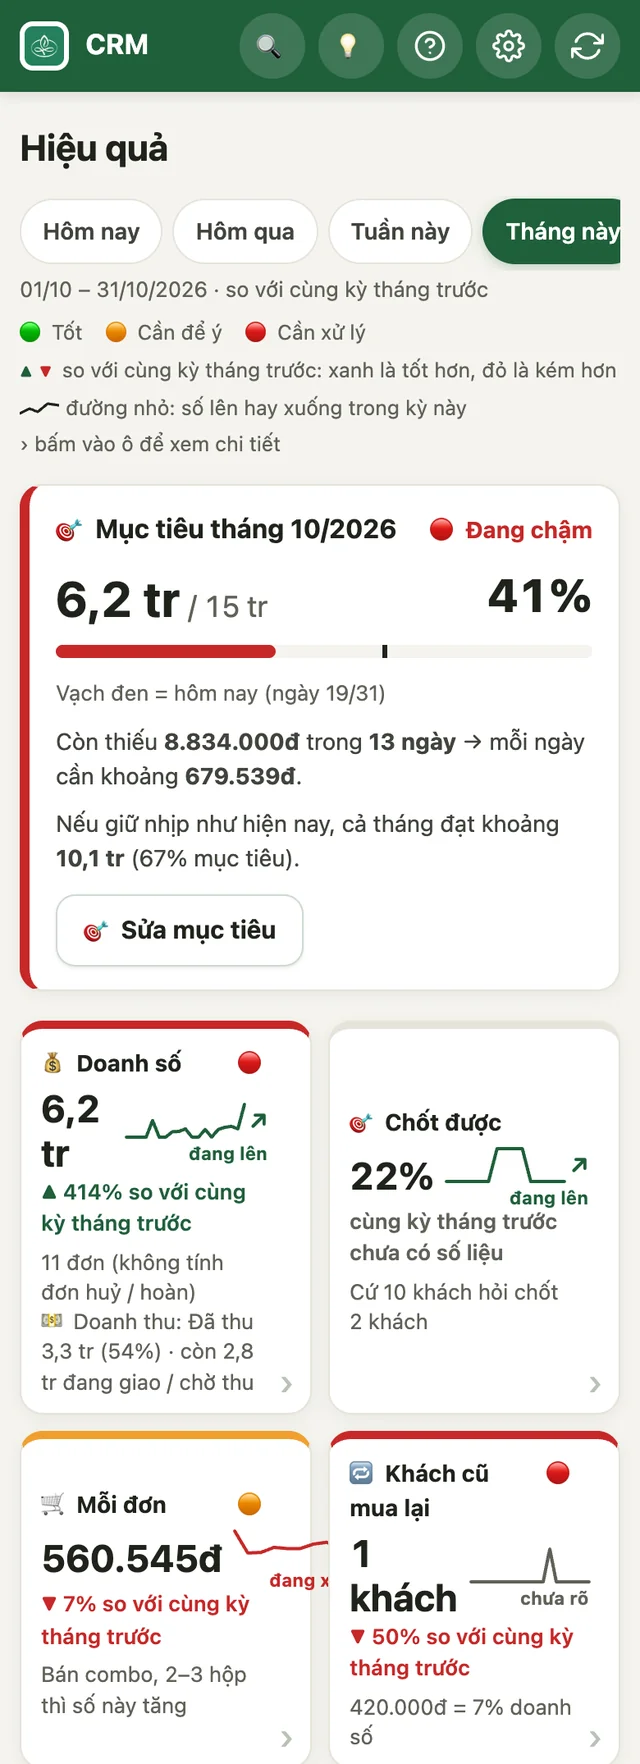
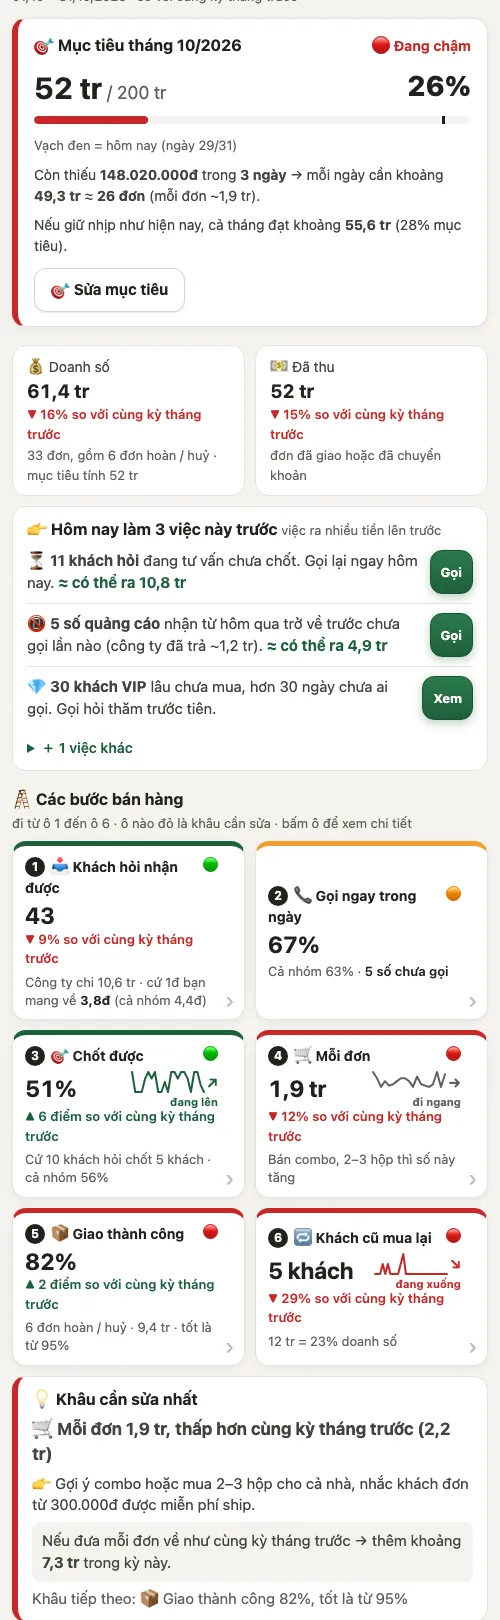
CRM Hiệu quả: sắp lại theo thứ tự sale giỏi (mục tiêu → 3 việc ra tiền → 6 bước bán hàng → khâu cần sửa nhất → công cụ)

Changed region(s): [[0.0, 0.0, 1.0, 1.0], [0.75, 0.1852, 0.96, 0.216]]

diff --git a/crm/app.js b/crm/app.js
@@ -3145,11 +3145,11 @@
   function weekStart(t) { var dow = new Date(t + 7 * 3600e3).getUTCDay(); return t - ((dow + 6) % 7) * DAY; } // thứ Hai
   function quarterOf(mk, n) { var y = +mk.slice(0, 4), m = +mk.slice(5, 7) - 1, q = Math.floor(m / 3) + (n || 0), yy = y + Math.floor(q / 4), qq = ((q % 4) + 4) % 4; return yy + '-' + pad(qq * 3 + 1); } // tháng đầu quý
   /** Nút chọn nhanh 1 chạm (Tổng quan, Marketing) + 📅 Khác (tự chọn ngày). Dưới là ngày cụ thể và đang so với kỳ nào. */
-  function perChips(slot, p, extra, noCmp) { // extra: thêm nút cuối ('all' = Mọi lúc); noCmp: tab không so kỳ trước (Đơn hàng)
+  function perChips(slot, p, extra, noCmp, noKey) { // extra: thêm nút cuối ('all' = Mọi lúc); noCmp: tab không so kỳ trước (Đơn hàng); noKey: bỏ dòng chú thích ký hiệu
     var ks = PER_CEO.concat(extra || []), R = perRange(p), on = ks.indexOf(p.k) >= 0;
     return '<div class="per-q" role="group" aria-label="Thời gian">' + ks.map(function (k) { return '<button type="button" class="chip' + (p.k === k ? ' on' : '') + '" data-pq="' + slot + '|' + k + '">' + perLabel({ k: k }) + '</button>'; }).join('') +
       '<button type="button" class="chip' + (on ? '' : ' on') + '" data-per="' + slot + '">📅 ' + (on ? 'Khác' : esc(perLabel(p))) + '</button></div>' +
-      '<p class="small muted per-q-d">' + (p.k === 'all' ? 'Từ trước tới nay' : perDates(R)) + (noCmp ? '' : CMP_LABEL ? ' · so với ' + CMP_LABEL : p.k === 'year' ? ' · năm nay chưa so với năm trước' : '') + '</p>' + (noCmp ? '' : statKey(slot));
+      '<p class="small muted per-q-d">' + (p.k === 'all' ? 'Từ trước tới nay' : perDates(R)) + (noCmp ? '' : CMP_LABEL ? ' · so với ' + CMP_LABEL : p.k === 'year' ? ' · năm nay chưa so với năm trước' : '') + '</p>' + (noCmp || noKey ? '' : statKey(slot));
   }
   /** Chú thích ngay trên màn hình thống kê: màu đèn, ▲▼, đường nhỏ, ô bấm được. Nhìn là hiểu, không phải mở hướng dẫn.
    *  Đèn chỉ có ở Tổng quan (g), Hiệu quả (r), Marketing (m); Sàn, Link & QR chỉ có ▲▼ và đường nhỏ. */
@@ -3341,7 +3341,7 @@
   }
 
   /** Khối mục tiêu tháng: thanh tiến độ + còn thiếu bao nhiêu + mỗi ngày cần bao nhiêu. */
-  function targetBlock(name, month, sales, canEdit) {
+  function targetBlock(name, month, sales, canEdit, avg) { // avg: tiền mỗi đơn → đổi "mỗi ngày cần" ra số đơn
     var t = targetOf(name, month), R = monthRange(month), isCur = month === monthOf(Date.now());
     var days = Math.round((R[1] - R[0]) / DAY), elapsed = isCur ? Math.min(days, Math.floor((today() - R[0]) / DAY) + 1) : days;
     var btn = canEdit ? '<button class="btn' + (t ? '' : ' pri') + '" data-target="' + esc(name) + '|' + month + '">🎯 ' + (t ? 'Sửa mục tiêu' : 'Đặt mục tiêu ' + monthLabel(month)) + '</button>' : '';
@@ -3350,7 +3350,7 @@
     var label = { done: '🎉 Đã đạt mục tiêu!', ok: '🟢 Đúng tiến độ', mid: '🟠 Hơi chậm', bad: '🔴 Đang chậm' }[lv];
     var remain = Math.max(0, t.amount - sales), left = days - elapsed + 1, forecast = elapsed ? Math.round(sales / elapsed * days) : 0;
     var lines = [];
-    if (isCur && p < 1) lines.push('Còn thiếu <b>' + money(remain) + '</b> trong <b>' + left + ' ngày</b> → mỗi ngày cần khoảng <b>' + moneyShort(Math.ceil(remain / left)) + '</b>.');
+    if (isCur && p < 1) lines.push('Còn thiếu <b>' + money(remain) + '</b> trong <b>' + left + ' ngày</b> → mỗi ngày cần khoảng <b>' + moneyShort(Math.ceil(remain / left)) + '</b>' + (avg ? ' ≈ <b>' + Math.ceil(remain / left / avg) + ' đơn</b> (mỗi đơn ~' + moneyShort(avg) + ')' : '') + '.');
     if (isCur && p < 1 && elapsed >= 3) lines.push('Nếu giữ nhịp như hiện nay, cả tháng đạt khoảng <b>' + moneyShort(forecast) + '</b> (' + pct(forecast, t.amount) + '% mục tiêu).');
     if (p >= 1) lines.push('Vượt mục tiêu <b>' + money(sales - t.amount) + '</b>. Tuyệt vời!');
     if (!isCur && p < 1) lines.push('Kết thúc tháng đạt ' + Math.round(p * 100) + '% mục tiêu.');
@@ -5626,7 +5626,7 @@
     cx.whole = f.p.k === 'month' || f.p.k === 'lmonth'; // đúng trọn 1 tháng → mục tiêu dùng luôn số trong kỳ
     cx.P = cmpRange(f.p);
     if (f.p.k === 'all') { cx.all = salesAllGet(); if (!cx.all) cx.allNote = S.salesAll ? '' : '<div class="notice">⏳ Đang lấy doanh số từ trước tới nay trên máy chủ…</div>'; else cx.allNote = '<p class="small muted">Mọi lúc: <b>doanh số, số đơn</b> tính đủ mọi đơn từ trước tới nay (cả đơn cũ nhập từ file sale). Các chỉ số khác (chăm sóc, tỷ lệ chốt, khách cũ) tính trên dữ liệu khoảng 13 tháng gần nhất.</p>'; }
-    return '<div class="page-head"><h1>Hiệu quả</h1><div class="grow"></div>' + whoSel() + '</div>' + perChips('r', f.p, ['all']) +
+    return '<div class="page-head"><h1>Hiệu quả</h1><div class="grow"></div>' + whoSel() + '</div>' + perChips('r', f.p, ['all'], false, !!who && who !== '-') +
       (cx.allNote || '') + (!who ? viewTeam(cx) : who === '-' ? viewNoOwner(cx) : viewPerson(who, cx));
   }
   /** Tổng doanh số từ trước tới nay theo nhân viên bán (hỏi máy chủ, nhớ 10 phút). null = đang tải / máy chủ cũ chưa có. */
@@ -5761,20 +5761,69 @@
       '<div class="rep-fun-leg">' + parts.map(function (x) { return '<span class="' + x[0] + '"><u></u>' + x[1] + ' <b>' + x[2] + '</b></span>'; }).join('') + '</div>' +
       '<p>Cứ <b>10</b> khách hỏi thì ' + esc(who) + ' chốt được <b>' + per10 + '</b> khách.' + (c.pending ? ' Còn <b>' + c.pending + '</b> khách đang tư vấn, gọi lại sớm để chốt thêm. <a href="#tiem-nang">Mở Khách hỏi →</a>' : '') + '</p></div>';
   }
-  /** Tối đa 5 việc nên làm ngay, việc gấp lên trước. Chỉ dựa trên số liệu đã có trên máy. */
+  /** Việc nên làm ngay: hiện 3 việc, còn lại bấm "việc khác" mới mở. Việc mang về nhiều tiền lên trước;
+   *  tiền ước tính = số khách × tỷ lệ chốt × tiền mỗi đơn của chính người này (không có thì lấy kỳ trước). */
   function repTodo(c, p, me, mb) {
-    var L = [], you = me ? 'bạn' : '';
-    if (mb && mb.none) L.push({ p: 0, t: '📵 <b>' + mb.none + ' số quảng cáo</b> nhận từ hôm qua trở về trước chưa gọi lần nào' + (mb.cost && mb.n ? ' (công ty đã trả ~' + moneyShort(Math.round(mb.cost / mb.n * mb.none)) + ')' : '') + '. Gọi ngay hôm nay.', a: '<a class="btn sm pri" href="#tiem-nang">Gọi</a>' });
-    if (c.pending) L.push({ p: 1, t: '⏳ <b>' + c.pending + ' khách hỏi</b> đang tư vấn chưa chốt. Gọi lại ngay hôm nay.', a: '<a class="btn sm pri" href="#tiem-nang">Gọi</a>' });
-    if (c.vipRisk) L.push({ p: 1, t: '💎 <b>' + c.vipRisk + ' khách VIP</b> lâu chưa mua, hơn 30 ngày chưa ai gọi. Gọi hỏi thăm trước tiên.', a: me ? '<a class="btn sm pri" href="#khach-hang" data-vipgo="1">Xem</a>' : '' });
-    if (c.stale) L.push({ p: 2, t: '📵 <b>' + c.stale + ' khách</b> ' + you + ' phụ trách đã hơn 30 ngày chưa nói chuyện. Mỗi ngày gọi vài người.', a: me ? '<a class="btn sm" href="#hom-nay">Hôm nay</a>' : '' });
-    if (c.closePct !== null && p.closePct !== null && c.closePct < p.closePct - 2) L.push({ p: 2, t: '📉 Chốt được ' + c.closePct + '%, thấp hơn ' + CMP_LABEL + ' (' + p.closePct + '%). Xem khách hay từ chối vì sao để chuẩn bị câu trả lời.', a: '<button class="btn sm" data-rgo="why">Xem lý do</button>' });
-    if (c.orders >= 3 && p.orders && c.avg < p.avg * 0.9) L.push({ p: 3, t: '🛒 Mỗi đơn đang nhỏ hơn ' + CMP_LABEL + ' (' + moneyShort(c.avg) + ' so với ' + moneyShort(p.avg) + '). Gợi ý khách mua combo hoặc 2–3 hộp.' });
-    if (c.backPct !== null && c.backPct >= 10 && c.backN >= 2) L.push({ p: 2, t: '📦 ' + c.backN + ' đơn bị hoàn (' + c.backPct + '%). Gọi xác nhận kỹ trước khi gửi, đơn lớn nhờ khách chuyển khoản trước.' });
-    if (c.care && c.replyPct !== null && c.replyPct < 40) L.push({ p: 3, t: '☎ Chỉ ' + c.replyPct + '% lượt gọi có khách nghe máy. Thử gọi giờ khác (12h–13h, sau 19h) hoặc nhắn Zalo trước.' });
-    L.sort(function (x, y) { return x.p - y.p; });
-    var body = L.length ? L.slice(0, 5).map(function (x) { return '<div class="rep-todo-r"><span>' + x.t + '</span>' + (x.a || '') + '</div>'; }).join('') : '<div class="rep-todo-r"><span>🎉 Mọi thứ đang ổn. Giữ nhịp chăm sóc khách cũ mỗi ngày nhé!</span></div>';
-    return '<div class="box rep-todo"><h3>👉 Việc nên làm ngay</h3>' + body + '</div>';
+    var L = [], you = me ? 'bạn' : '', rate = c.data ? c.won / c.data : p.data ? p.won / p.data : 0, avg = c.avg || p.avg || 0;
+    var gain = function (n) { return Math.round(n * rate * avg); }, est = function (v) { return v >= 1e5 ? ' <b class="rep-est">≈ có thể ra ' + moneyShort(v) + '</b>' : ''; };
+    if (mb && mb.none) L.push({ p: 0, v: gain(mb.none), t: '📵 <b>' + mb.none + ' số quảng cáo</b> nhận từ hôm qua trở về trước chưa gọi lần nào' + (mb.cost && mb.n ? ' (công ty đã trả ~' + moneyShort(Math.round(mb.cost / mb.n * mb.none)) + ')' : '') + '.', a: '<a class="btn sm pri" href="#tiem-nang">Gọi</a>' });
+    if (c.pending) L.push({ p: 1, v: gain(c.pending), t: '⏳ <b>' + c.pending + ' khách hỏi</b> đang tư vấn chưa chốt. Gọi lại ngay hôm nay.', a: '<a class="btn sm pri" href="#tiem-nang">Gọi</a>' });
+    if (c.vipRisk) L.push({ p: 1, v: 0, t: '💎 <b>' + c.vipRisk + ' khách VIP</b> lâu chưa mua, hơn 30 ngày chưa ai gọi. Gọi hỏi thăm trước tiên.', a: me ? '<a class="btn sm pri" href="#khach-hang" data-vipgo="1">Xem</a>' : '' });
+    if (c.stale) L.push({ p: 2, v: 0, t: '📇 <b>' + c.stale + ' khách</b> ' + you + ' phụ trách đã hơn 30 ngày chưa nói chuyện. Không cần gọi hết: mỗi ngày gọi <b>' + Math.min(20, c.stale) + ' người</b> là đủ.', a: me ? '<a class="btn sm" href="#hom-nay">Mở Hôm nay</a>' : '' });
+    L.sort(function (x, y) { return (y.v - x.v) || (x.p - y.p); });
+    var row = function (x) { return '<div class="rep-todo-r"><span>' + x.t + est(x.v) + '</span>' + (x.a || '') + '</div>'; };
+    var body = L.length ? L.slice(0, 3).map(row).join('') + (L.length > 3 ? '<details class="rep-todo-more"><summary>＋ ' + (L.length - 3) + ' việc khác</summary>' + L.slice(3).map(row).join('') + '</details>' : '') : '<div class="rep-todo-r"><span>🎉 Không có việc gấp. Giữ nhịp chăm sóc khách cũ mỗi ngày nhé!</span></div>';
+    return '<div class="box rep-todo"><h3>👉 Hôm nay làm ' + (L.length ? Math.min(3, L.length) + ' việc này trước' : 'gì?') + ' <small class="muted">việc ra nhiều tiền lên trước</small></h3>' + body + '</div>';
+  }
+  /** Ô từng bước bán hàng: số thứ tự + đèn kèm chữ (Tốt / Cần để ý / Cần xử lý), bấm → mở mục chi tiết. */
+  function repStep(i, go, lv, label, value, d, sub, spark) {
+    return '<button type="button" class="dash-tile rep-step ' + (lv || '') + '" data-dgo="' + go + '"><span class="dash-tile-l"><span><em class="rep-step-n">' + i + '</em>' + label + '</span>' + (DASH_LV[lv] ? '<i class="rep-step-lv">' + DASH_LV[lv] + '<span> ' + DASH_TIP[lv] + '</span></i>' : '') + '</span>' +
+      '<span class="dash-tile-v"><b>' + value + '</b>' + (spark || '') + '</span>' + (d || '') + '<small>' + sub + '</small></button>';
+  }
+  /** Tỷ lệ chốt cả nhóm theo file số quảng cáo (máy chủ gửi kèm cả cho sale). */
+  function smkClose(T) { return T && T.n ? pct(T.won, T.n) : null; }
+  /** 6 bước bán hàng theo đúng thứ tự làm việc (29/10/2026): số nhận → gọi ngay → chốt → mỗi đơn → giao thành công → khách cũ mua lại. */
+  function repSteps(c, p, mk, mb, T) {
+    var K = repSparks(c.name, c.cx), sp = mb ? smkSpeed(mb) : null, tsp = T && T !== mb ? smkSpeed(T) : null, tcl = T && T !== mb ? smkClose(T) : null;
+    var roi = mb && mb.cost ? mb.rev / mb.cost : null, troi = T ? (T.roi != null ? T.roi : T.cost ? T.rev / T.cost : null) : null;
+    var ok = c.vPct === null ? null : 100 - c.vPct, okLv = c.vPct === null ? '' : c.vPct < 5 ? 'ok' : c.vPct < 10 ? 'mid' : 'bad';
+    var wait = mk === null ? 'Không tính khi xem Mọi lúc' : mk === undefined ? '⏳ Đang tính…' : '';
+    return '<div class="rep-steps-h"><h3>🪜 Các bước bán hàng</h3><span>đi từ ô 1 đến ô 6 · ô nào đỏ là khâu cần sửa · bấm ô để xem chi tiết</span></div><div class="dash-tiles dt6 rep-steps">' +
+      repStep(1, 'mkt', roi !== null ? adsLv(mb.cost, mb.rev) : '', '📥 Khách hỏi nhận được', c.data, delta(c.data, p.data),
+        roi !== null ? 'Công ty chi ' + moneyShort(mb.cost) + ' · cứ 1đ bạn mang về <b>' + oneDec(roi) + 'đ</b>' + (troi !== null && T !== mb ? ' (cả nhóm ' + oneDec(troi) + 'đ)' : '') : wait || 'Số khách để lại từ quảng cáo') +
+      repStep(2, 'mkt', smkSpeedLv(sp), '📞 Gọi ngay trong ngày', sp === null ? '–' : sp + '%', '',
+        sp === null ? (wait || 'Chưa có số mới để tính') : (tsp !== null ? 'Cả nhóm ' + tsp + '% · ' : '') + (mb.none ? '<b class="bad-line">' + mb.none + ' số chưa gọi</b>' : 'Tốt là từ 80%')) +
+      repStep(3, 'why', repRateLv(c.closePct, p.closePct), '🎯 Chốt được', c.closePct === null ? '–' : c.closePct + '%', c.closePct === null ? '' : delta(c.closePct, p.closePct, 'rate'),
+        c.data ? 'Cứ 10 khách hỏi chốt ' + Math.round(c.won * 10 / c.data) + ' khách' + (tcl !== null ? ' · cả nhóm ' + tcl + '%' : '') : 'Chưa có khách hỏi từ quảng cáo', K.close) +
+      repStep(4, 'rtrend', c.orders && p.orders ? dashTrend(c.avg, p.avg) : '', '🛒 Mỗi đơn', c.orders ? moneyShort(c.avg) : '–', c.orders ? delta(c.avg, p.orders ? p.avg : 0) : '', 'Bán combo, 2–3 hộp thì số này tăng', K.avg) +
+      repStep(5, 'rtrend', okLv, '📦 Giao thành công', ok === null ? '–' : ok + '%', ok !== null && p.vPct !== null ? delta(ok, 100 - p.vPct, 'rate') : '',
+        c.grossN ? (c.vN ? c.vN + ' đơn hoàn / huỷ · ' + moneyShort(c.vV) + ' · ' : '') + 'tốt là từ 95%' : 'Chưa có đơn trong kỳ') +
+      repStep(6, 'care', c.sales ? repRateLv(c.oldPct, p.sales ? p.oldPct : null) : '', '🔁 Khách cũ mua lại', c.repeat + ' khách', delta(c.repeat, p.repeat), c.sales ? moneyShort(c.oldRev) + ' = ' + c.oldPct + '% doanh số' : 'Chăm sóc tốt thì số này tăng', K.repeat) +
+      '</div>';
+  }
+  /** 💡 Khâu cần sửa nhất: chỉ 1 khâu (đèn đỏ trước, rồi khâu mất nhiều tiền nhất), kèm cách làm và số tiền thêm được nếu sửa. */
+  function repFix(c, p, mb, T) {
+    var C = [], avg = c.avg || p.avg || 0, sp = mb ? smkSpeed(mb) : null, tcl = T && T !== mb ? smkClose(T) : null;
+    if (c.vPct !== null && c.vPct > 5 && c.vN >= 2) C.push({ lv: c.vPct >= 10 ? 'bad' : 'mid', v: Math.round(c.vV * (c.vPct - 5) / c.vPct), t: '📦 Giao thành công ' + (100 - c.vPct) + '%, tốt là từ 95%', h: 'Gọi xác nhận trước khi gửi (đúng tên, địa chỉ, giờ nhận). Đơn lớn nhờ khách chuyển khoản trước.', g: 'giảm hoàn / huỷ còn 5%' });
+    if (sp !== null && sp < 80) C.push({ lv: smkSpeedLv(sp), v: 0, t: '📞 Gọi ngay trong ngày ' + sp + '%, tốt là từ 80%', h: 'Khách vừa để số còn nhớ quảng cáo nên dễ chốt. Có số mới là gọi trong 1 tiếng, gọi xong ghi lên CRM.' + (mb.none ? ' Gọi ngay ' + mb.none + ' số chưa gọi.' : '') });
+    var ref = c.closePct === null ? null : tcl !== null && tcl > c.closePct ? [tcl, 'bằng cả nhóm (' + tcl + '%)'] : p.closePct !== null && p.closePct > c.closePct ? [p.closePct, 'bằng ' + CMP_LABEL + ' (' + p.closePct + '%)'] : null;
+    if (ref && c.data >= 5) C.push({ lv: ref[0] - c.closePct >= 3 ? 'bad' : 'mid', v: Math.round(c.data * (ref[0] - c.closePct) / 100 * avg), t: '🎯 Chốt được ' + c.closePct + '%', h: 'Xem khách hay từ chối vì sao (mục 🙅 bên dưới) để chuẩn bị sẵn câu trả lời. Khách đang tư vấn thì gọi lại trong 24 giờ.', g: 'tăng tỷ lệ chốt ' + ref[1] });
+    if (c.orders >= 3 && p.orders && c.avg < p.avg && CMP_LABEL) C.push({ lv: dashTrend(c.avg, p.avg), v: (p.avg - c.avg) * c.orders, t: '🛒 Mỗi đơn ' + moneyShort(c.avg) + ', thấp hơn ' + CMP_LABEL + ' (' + moneyShort(p.avg) + ')', h: 'Gợi ý combo hoặc mua 2–3 hộp cho cả nhà, nhắc khách đơn từ 300.000đ được miễn phí ship.', g: 'đưa mỗi đơn về như ' + CMP_LABEL });
+    if (p.repeat && c.repeat < p.repeat && CMP_LABEL) C.push({ lv: dashTrend(c.repeat, p.repeat), v: c.repeat ? Math.round((p.repeat - c.repeat) * c.oldRev / c.repeat) : 0, t: '🔁 Khách cũ mua lại ' + c.repeat + ' khách, ít hơn ' + CMP_LABEL + ' (' + p.repeat + ')', h: 'Mỗi ngày làm hết việc chăm sóc ở tab Hôm nay: hỏi nhận hàng, nhắc sắp hết sản phẩm, mời quay lại.', g: 'có thêm ' + (p.repeat - c.repeat) + ' khách cũ quay lại' });
+    if (c.care >= 10 && c.replyPct !== null && c.replyPct < 40) C.push({ lv: 'mid', v: 0, t: '☎ Chỉ ' + c.replyPct + '% cuộc gọi có khách nghe máy', h: 'Thử gọi giờ khác (12h–13h, sau 19h) hoặc nhắn Zalo trước khi gọi.' });
+    var rk = { bad: 2, mid: 1 };
+    C.sort(function (x, y) { return ((rk[y.lv] || 0) - (rk[x.lv] || 0)) || (y.v - x.v); });
+    if (!C.length) return '<div class="box rep-fix ok"><h3>💡 Khâu cần sửa nhất</h3><p>🎉 Các khâu đều đang tốt' + (CMP_LABEL ? ' so với ' + CMP_LABEL : '') + '. Giữ nhịp này nhé!</p></div>';
+    var x = C[0];
+    return '<div class="box rep-fix ' + (x.lv || 'mid') + '"><h3>💡 Khâu cần sửa nhất</h3><p class="rep-fix-t"><b>' + x.t + '</b></p><p>👉 ' + x.h + '</p>' +
+      (x.g && x.v >= 1e5 ? '<p class="rep-fix-g">Nếu ' + x.g + ' → thêm khoảng <b>' + moneyShort(x.v) + '</b> trong kỳ này.</p>' : '') +
+      (C[1] ? '<p class="small muted">Khâu tiếp theo: ' + C[1].t + '</p>' : '') + '</div>';
+  }
+  /** Dòng tiền dưới thanh mục tiêu: doanh số (gồm hoàn / huỷ) và tiền đã thu. Mục tiêu vẫn tính trên doanh số trừ hoàn / huỷ (c.sales). */
+  function repMoneyLine(c, p, cx) {
+    var g = cx.all ? c.sales : c.gross;
+    return '<div class="rep-money"><div>💰 Doanh số <b>' + moneyShort(g) + '</b>' + (cx.all ? '' : delta(c.gross, p.gross)) + '<small>' + (cx.all ? c.orders + ' đơn (Mọi lúc: chưa gồm hoàn / huỷ)' : c.grossN + ' đơn' + (c.vN ? ', gồm ' + c.vN + ' đơn hoàn / huỷ · mục tiêu tính ' + moneyShort(c.sales) : '')) + '</small></div>' +
+      '<div>💵 Đã thu <b>' + moneyShort(c.paid) + '</b>' + delta(c.paid, p.paid) + '<small>' + (c.sales > c.paid ? 'còn ' + moneyShort(c.sales - c.paid) + ' đang giao / chờ thu' : 'đơn đã giao hoặc đã chuyển khoản') + '</small></div></div>';
   }
   /** 3 ô tiền của tab Hiệu quả (26/10/2026): 💰 Doanh số GỒM hoàn / huỷ · 💵 Doanh thu đã thu · ↩ Hoàn / huỷ. Mục tiêu vẫn tính trên doanh số trừ hoàn / huỷ (c.sales).
    *  Mọi lúc (cx.all): máy chủ chỉ có doanh số trừ hoàn / huỷ → ô Doanh số hiện số đó. */
@@ -5786,33 +5835,31 @@
       dashTile('rtrend', vlv, '↩ Hoàn / huỷ', c.vPct === null ? '–' : c.vPct + '%', c.vPct !== null && p.vPct !== null ? inv(delta(c.vPct, p.vPct, 'rate')) : '',
         c.grossN ? c.vN + ' / ' + c.grossN + ' đơn · ' + moneyShort(c.vV) + ' · dưới 5% là tốt' : 'Chưa có đơn trong kỳ', K.vd);
   }
+  /* Hiệu quả của 1 người (29/10/2026) theo thứ tự sale giỏi tự hỏi: mình ở đâu so với mục tiêu → hôm nay làm gì → yếu ở bước nào → sửa thế nào.
+   * Số liệu sâu (quảng cáo, chăm sóc, lý do, tỉnh) thu gọn bên dưới; công cụ (link web, báo cáo) ở cuối. */
   function viewPerson(name, cx) {
-    var month = cx.month, c = salesAllFix(perf(name, cx.R), name, cx), p = perf(name, cx.P), me = name === S.user.name;
-    var ms = cx.whole ? c.sales : perf(name, monthRange(month)).sales, t = targetOf(name, month), G = t && t.amount ? goalCalc(ms, t.amount, month) : null;
+    var month = cx.month, c = salesAllFix(perf(name, cx.R), name, cx), p = perf(name, cx.P), me = name === S.user.name, who = me ? 'bạn' : name;
+    var ms = cx.whole ? c.sales : perf(name, monthRange(month)).sales, mk = smkGet(me && lvl() < 2 ? '' : name, cx), mb = mk && mk.me, T = mk && mk.team;
+    c.name = name; c.cx = cx;
     var h = (lvl() >= 2 && !me ? '<button class="btn ghost" data-who="team" style="margin-bottom:10px">← Quay lại cả nhóm</button>' : '') +
-      targetBlock(name, month, ms, me || lvl() >= 2);
-    var per10 = c.data ? Math.round(c.won * 10 / c.data) : null, mk = smkGet(me && lvl() < 2 ? '' : name, cx), K = repSparks(name, cx);
-    h += '<section class="dash-hero"><div class="dash-tiles dt6">' + repMoneyTiles(c, p, G, cx, K) +
-      dashTile('why', repRateLv(c.closePct, p.closePct), '🎯 Chốt được', c.closePct === null ? '–' : c.closePct + '%', c.closePct === null ? '' : delta(c.closePct, p.closePct, 'rate'), c.data ? 'Cứ 10 khách hỏi chốt ' + per10 + ' khách' : 'Chưa có khách hỏi từ quảng cáo', K.close) +
-      dashTile('rtrend', c.orders && p.orders ? dashTrend(c.avg, p.avg) : '', '🛒 Mỗi đơn', c.orders ? moneyShort(c.avg) : '–', c.orders ? delta(c.avg, p.orders ? p.avg : 0) : '', 'Bán combo, 2–3 hộp thì số này tăng', K.avg) +
-      dashTile('care', c.sales ? repRateLv(c.oldPct, p.sales ? p.oldPct : null) : '', '🔁 Khách cũ mua lại', c.repeat + ' khách', delta(c.repeat, p.repeat), c.sales ? moneyShort(c.oldRev) + ' = ' + c.oldPct + '% doanh số' : 'Chăm sóc tốt thì số này tăng', K.repeat) +
-      '</div>' + smkInvest(mk, mk && mk.me, me ? 'bạn' : name, cx.label) + repFunnel(c, me ? 'bạn' : name) + repTodo(c, p, me, mk && mk.me) + '</section>' + refBox(c, p, name);
-    h += '<div class="steps" style="margin:0 0 16px"><button class="btn pri" data-daily="' + esc(name) + '">📋 Báo cáo ngày (gửi Zalo)</button><button class="btn" data-bcdt="' + esc(name) + '|' + month + '">📊 Bảng BCDT ' + monthLabel(month) + '</button>' + (lvl() >= 3 && !me ? '<button class="btn" data-usage="' + esc(name) + '">📈 Mức dùng CRM</button>' : '') + '</div>';
+      targetBlock(name, month, ms, me || lvl() >= 2, c.avg || p.avg) + repMoneyLine(c, p, cx);
+    h += '<section class="dash-hero">' + repTodo(c, p, me, mb) + repSteps(c, p, mk, mb, T) + repFix(c, p, mb, T) + '</section>';
     h += '<h2 class="dash-more-h">Xem chi tiết <small class="muted">(bấm để mở)</small></h2>';
     h += repMore('rtrend', '📈 Bán hàng theo ngày', 'Doanh số, số đơn, lượt chăm sóc từng ngày, so với ' + (CMP_LABEL || 'kỳ trước'), repTrend(name, cx));
-    h += smkMore(mk, mk && mk.me);
+    h += smkMore(mk, mb, smkInvest(mk, mb, who, cx.label).replace(/<button class="link" data-rgo="mkt">[^<]*<\/button>/, '') + repFunnel(c, who));
     h += repMore('care', '💬 Chăm sóc khách', c.care + ' lượt' + (c.replyPct === null ? '' : ' · ' + c.replyPct + '% khách nghe máy') + (c.convPct === null ? '' : ' · ' + c.convPct + '% chăm sóc ra đơn'), careMetrics(c, p, me, name, cx.R));
     var why = whyBlock(name, cx), wt = (why.match(/<span class="bar-l" role="cell">([^<]*)</) || [])[1];
     h += repMore('why', '🙅 Vì sao khách chưa mua', wt ? 'Nhiều nhất: ' + wt : 'Ghi lý do khi chăm sóc để máy gom', why);
     var geo = geoBlock(name, cx), gt = (geo.match(/Nhiều nhất: <b>([^<]*)</) || [])[1];
     h += repMore('geo', '📍 Khách ở tỉnh nào', gt ? 'Nhiều nhất: ' + gt : 'Chưa có địa chỉ', geo);
-    h += '<p class="small muted">🟢 tốt hơn / bằng ' + (CMP_LABEL || 'kỳ trước') + ' · 🟠 giảm nhẹ · 🔴 giảm nhiều. Doanh số tính theo “Nhân viên bán” ghi trên từng đơn; đơn khách tự đặt trên web tính cho người đang phụ trách khách đó.</p>';
+    h += '<h2 class="dash-more-h">🧰 Công cụ</h2><div class="steps" style="margin:0 0 10px"><button class="btn pri" data-daily="' + esc(name) + '">📋 Báo cáo ngày (gửi Zalo)</button><button class="btn" data-bcdt="' + esc(name) + '|' + month + '">📊 Bảng BCDT ' + monthLabel(month) + '</button>' + (lvl() >= 3 && !me ? '<button class="btn" data-usage="' + esc(name) + '">📈 Mức dùng CRM</button>' : '') + '</div>' + refBox(c, p, name);
+    h += '<p class="small muted">🟢 Tốt · 🟠 Cần để ý · 🔴 Cần xử lý, so với ' + (CMP_LABEL || 'kỳ trước') + ' hoặc mức tốt ghi trong ô. Doanh số tính theo “Nhân viên bán” ghi trên từng đơn; đơn khách tự đặt trên web tính cho người đang phụ trách khách đó.</p>';
     return h;
   }
-  function smkMore(d, b) {
+  function smkMore(d, b, top) { // top: khung đặt đầu mục (Hiệu quả 1 người: công ty đã đầu tư + khách hỏi đi về đâu)
     if (d === null) return '';
     var B = d && (b || d.team);
-    return repMore('mkt', '📣 Từ quảng cáo', !d ? '⏳ đang tải…' : (B ? B.n + ' số' + (B.cost ? ' · công ty chi ' + moneyShort(B.cost) : '') + (smkSpeed(B) !== null ? ' · gọi trong ngày ' + smkSpeed(B) + '%' : '') : 'chưa có số') + ' · ưu đãi đang chạy', smkDetail(d, b));
+    return repMore('mkt', '📣 Từ quảng cáo', !d ? '⏳ đang tải…' : (B ? B.n + ' số' + (B.cost ? ' · công ty chi ' + moneyShort(B.cost) : '') + (smkSpeed(B) !== null ? ' · gọi trong ngày ' + smkSpeed(B) + '%' : '') : 'chưa có số') + ' · ưu đãi đang chạy', (top || '') + smkDetail(d, b));
   }
   function bindRep() {
     $$('details[data-rk]').forEach(function (d) {

diff --git a/crm/app.css b/crm/app.css
@@ -1198,3 +1198,24 @@ div.f > span { display: block; font-size: 13px; font-weight: 600; color: var(--i
 /* ✅ Nên làm gì: ai làm */
 .mk-who { display: inline-block; font-size: 12px; font-weight: 700; padding: 1px 8px; border-radius: 999px; background: #e7f2ea; color: var(--primary); vertical-align: 1px; }
 .mk-who.s { background: #fff1e0; color: var(--orange); }
+/* Hiệu quả 1 người (29/10/2026): dòng tiền dưới mục tiêu, việc làm ngay, 6 bước bán hàng, khâu cần sửa nhất */
+.rep-money { display: grid; grid-template-columns: 1fr 1fr; gap: 10px; margin: 10px 0 0; }
+.rep-money > div { background: #fff; border: 1px solid var(--line); border-radius: var(--radius); padding: 10px 14px; font-size: 14px; }
+.rep-money b { display: block; font-size: 22px; color: var(--ink); font-variant-numeric: tabular-nums; }
+.rep-money small { display: block; color: var(--muted); font-size: 13px; margin-top: 2px; }
+.rep-todo h3 small { font-weight: 400; font-size: 13px; }
+.rep-est { color: var(--primary); white-space: nowrap; }
+.rep-todo-more summary { cursor: pointer; padding: 8px 0 0; font-size: 14px; font-weight: 600; color: var(--primary); }
+.rep-steps-h { display: flex; flex-wrap: wrap; align-items: baseline; gap: 4px 10px; margin: 18px 0 8px; }
+.rep-steps-h h3 { margin: 0; font-size: 16px; }
+.rep-steps-h span { font-size: 13px; color: var(--muted); }
+.rep-step-n { display: inline-flex; align-items: center; justify-content: center; width: 20px; height: 20px; border-radius: 50%; background: var(--ink); color: #fff; font-style: normal; font-size: 12px; margin-right: 6px; vertical-align: 1px; }
+.rep-step .rep-step-lv { font-size: 12px; font-weight: 600; color: var(--muted); white-space: nowrap; }
+.box.rep-fix { margin: 0 0 10px; border-left: 6px solid var(--line); }
+.box.rep-fix.ok { border-left-color: var(--primary); } .box.rep-fix.mid { border-left-color: var(--mid); } .box.rep-fix.bad { border-left-color: var(--red); }
+.rep-fix h3 { margin: 0 0 8px; font-size: 16px; }
+.rep-fix p { margin: 6px 0 0; font-size: 15px; line-height: 1.45; }
+.rep-fix .rep-fix-t b { font-size: 17px; }
+.rep-fix .rep-fix-g { background: var(--bg, #f5f7f3); border-radius: 8px; padding: 8px 10px; }
+@media (max-width: 520px) { .rep-money b { font-size: 19px; } .rep-step .rep-step-lv span { display: none; } }
+.rep-step small b { display: inline; font-size: inherit; margin: 0; color: var(--ink); }

diff --git a/HUONG-DAN.md b/HUONG-DAN.md
@@ -232,7 +232,7 @@ Sheet **Đơn hàng website Thực Dưỡng Lành**: https://docs.google.com/spr
 - **Số ngày chưa chăm sóc** (nhãn màu trên mỗi thẻ khách + ô lớn trong trang chi tiết): đếm từ lần gần nhất khách *có phản hồi* (mọi kết quả trừ "Không nghe máy"), lấy từ Nhật ký CSKH + cột Lần CSKH/Kết quả CSKH. Chưa chăm sóc lần nào thì đếm từ ngày mua đầu tiên. Xanh ≤ 7 ngày, cam 8–30, đỏ > 30. Có bộ lọc "Quá 30 ngày chưa chăm sóc" và cách sắp xếp "Lâu chưa chăm sóc nhất". Tính trên trình duyệt, không cần sửa Apps Script.
 - **Khách tiềm năng** (tab Tiềm năng): cần liên hệ khi Mới hỏi chưa liên hệ, đến ngày hẹn, hoặc Đang tư vấn mà 3 ngày chưa liên hệ lại. Nút Tư vấn → kết quả; "Khách chốt mua" mở form tạo đơn (`order_create` với `leadId` → lead thành Đã chốt + Mã đơn, Nguồn đơn = "Tiềm năng – <kênh>"); "Khách không mua" bắt buộc lý do. Mẫu tin "Khách mới hỏi" được thêm 1 lần vào Mẫu tin nhắn CSKH (cờ `tpl_lead_added` trong Script Properties).
 - **Hôm nay** (`viewToday`): thứ tự Đơn mới → 🔥 Khách vừa hỏi (`isHotLead`: khách hỏi chưa liên hệ lần nào, hỏi trong 24 giờ) → Chăm sóc (nhóm đầu tiên tự mở, mỗi dòng có `lastTouch` = lần liên hệ gần nhất từ `recentHist`) → Khách hỏi còn lại. Quản lý xem Tất cả nhân sự có `teamBlock` (tiến độ từng người: đã xong/cần làm theo `dayLimit`, trễ, KNM, khách hỏi chờ, đơn Mới, chốt hôm nay theo `seller`). Số đỏ tab Hôm nay = đơn mới + `dayQueue` + `hotLeads`. Đơn mới (`newOrders`, `newOrderSeen`; tab Đơn hàng dùng `ordersSeen` + nhóm Chờ xác nhận): Quản lý/Quản trị thấy hết, nhân viên chỉ thấy đơn Mới có NV bán = mình (quản lý giao qua ô `data-oassign` trên dòng đơn Mới → `assignOrder` → `order_status` seller). Đơn web của khách đã có người phụ trách (hoặc chế độ Tự chia đều) vẫn tự điền NV bán nên người đó thấy ngay. Tên sản phẩm hiển thị qua `prettyProd` (viết hoa chữ đầu và tên thương hiệu). Nhóm ảo `viplate` (`vipLate`: VIP, trễ ≥ 2 ngày, trừ callback/runout; `prioOf` = 0.5) đứng sau Hẹn gọi lại. `bdayChip` (`bdaySoon` ≤ 7 ngày, cần cột Ngày sinh). `sugLine`/`suggestFor`: sản phẩm hay mua kèm, đếm cặp từ `products` của mọi khách đã tải (`coBuyMap`, khoá `pkey` bỏ quy cách, cần ≥ 2 lượt), chỉ hiện ở runout/d30/winback/old.
-- **Hiệu quả** (tab `#bao-cao`, ai cũng xem): nhân viên thấy của mình, quản lý thấy thêm "Cả nhóm" (có biểu đồ **So sánh nhân viên** theo chỉ số chọn được, vạch trung bình nhóm) và bấm từng người. Quản lý có ô **Người phụ trách** dùng chung cho 5 tab (`S.who`, lưu `localStorage crm_who`: rỗng = tất cả, `-` = chưa ai, hoặc tên); đơn lọc theo `seller`, thiếu thì lấy người phụ trách khách. Theo tháng (tháng này / trước / 2 tháng trước). Khối **Mục tiêu tháng**: thanh tiến độ + vạch "hôm nay", trạng thái (đúng tiến độ nếu % đạt ≥ % số ngày đã qua; hơi chậm ≥ 80% mức đó; còn lại là chậm), còn thiếu / mỗi ngày cần, dự báo cả tháng. Chỉ số: doanh số, giá trị TB/đơn, tỷ lệ chốt (`closeStats`: data = các dòng `S.d.adRows` có ngày trong kỳ, sale = người đó, mỗi SĐT 1 lần; ra đơn = SĐT có đơn không huỷ/hoàn từ đầu ngày có số (`buyMap`) hoặc khách hỏi của số đó "Đã chốt"; không mua / số rác theo khách hỏi; tỷ lệ = ra đơn ÷ data, đang tư vấn / không mua / số rác nằm trong mẫu số; BCDT dùng chung cho cột Data quảng cáo / Data ra đơn / Tỷ lệ chốt và cột Data mới theo dòng SP (dòng SP theo cột Nguồn / tên sheet)), % doanh thu từ khách cũ, lượt chăm sóc & % khách trả lời, khách đặt lại, khách quá 30 ngày. Mỗi chỉ số so với tháng trước. **Màn hình 1 người** (`viewPerson`, 13/10/2026, cùng kiểu Tổng quan): mục tiêu → 4 ô `dashTile` (💰 tiền bán được, 🎯 chốt được, 🛒 mỗi đơn, 🔁 khách cũ mua lại; đèn so với chính người đó kỳ trước: `dashTrend` / `repRateLv` (giảm < 3 điểm = cam), tiền bán được dùng đèn mục tiêu nếu tháng này có mục tiêu) → `repFunnel` (thanh data quảng cáo: đã mua / đang tư vấn / không mua / số rác) → `repTodo` (≤ 5 việc) → nút Báo cáo ngày / BCDT → mục thu gọn `repMore` (xu hướng, chăm sóc, lý do, tỉnh; nhớ ở localStorage `rep_open`, `bindRep`). Nhân viên chỉ tải dữ liệu của mình nên không so với nhóm. **Màn hình cả nhóm** (`viewTeam`, 13/10/2026): mục tiêu nhóm (thêm mỗi ngày cần / dự báo) → 4 ô → `repFunnel` cả nhóm → `repMgrTodo` (≤ 5 việc, tên bấm được `data-who`) → `repPeople` (xếp theo doanh số, huy chương top 3, viền = `goalCalc` lv, dòng Cần kèm từ `repWeak` so với `perf(null)`) → mục thu gọn: So sánh nhân viên (`compareBlock`), xu hướng, chăm sóc, lý do (`whyBlock` + `teamLostBlock`), tỉnh. Bỏ thẻ `.card[data-who]` cũ và dòng thông báo đơn chưa có NV bán (đã vào việc cần làm). **📣 Từ quảng cáo** (13/10/2026, api `2026-10-13h`, `api/src/salemkt.js`): lệnh `sale_mkt` {from, to, name} – máy chủ tính cả nhóm 1 lần (kv `smkt1_<from>_<to>_<ads_rows_v>`, 30 phút / kỳ đã qua 12 tiếng): data = `ads_rows` trong kỳ (mỗi SĐT 1 lần, như `closeStats`), sản phẩm = `prodOf(cột Nguồn)` (PROD_KW giống mktv.js); chi phí = `ad_spend` trừ kênh sàn / KOL, chia theo `prodOf(tên chiến dịch)` ÷ số data sản phẩm đó, phần còn lại chia đều; kết quả: won / junk / lost / open, rev = đơn không huỷ/hoàn từ ngày có số; lần liên hệ đầu = min(nhật ký có SĐT trừ việc hệ thống, `leads.last_at` khi đã khác Mới hỏi, đơn) → same / next / late / none (chưa gọi, số trước hôm nay) / wait. Nhân viên nhận `me` + `team` (không tên), quản lý thêm `people`. CRM: `smkGet` (nhớ 10 phút, bỏ qua kỳ Mọi lúc), `smkInvest` (khung 💸, đèn `adsLv`), `smkMore`/`smkDetail` (mục `rm-mkt`), `repTodo` / `repMgrTodo` / `repWeak` dùng `none` + `smkSpeed`. **Ưu đãi đang chạy**: kv `mkt_offers` [{id, title, prod, text, until, by, at}], lệnh `offers` (ai cũng đọc), `offer_save` / `offer_del` (Marketing + Quản trị, có trong `MKT_ACTIONS`); CRM `offerBanner` (đầu tab Khách hỏi), `offerAdmin` / `offerEdit` (tab Marketing, nút `data-offer`).
+- **Hiệu quả** (tab `#bao-cao`, ai cũng xem): nhân viên thấy của mình, quản lý thấy thêm "Cả nhóm" (có biểu đồ **So sánh nhân viên** theo chỉ số chọn được, vạch trung bình nhóm) và bấm từng người. Quản lý có ô **Người phụ trách** dùng chung cho 5 tab (`S.who`, lưu `localStorage crm_who`: rỗng = tất cả, `-` = chưa ai, hoặc tên); đơn lọc theo `seller`, thiếu thì lấy người phụ trách khách. Theo tháng (tháng này / trước / 2 tháng trước). Khối **Mục tiêu tháng**: thanh tiến độ + vạch "hôm nay", trạng thái (đúng tiến độ nếu % đạt ≥ % số ngày đã qua; hơi chậm ≥ 80% mức đó; còn lại là chậm), còn thiếu / mỗi ngày cần, dự báo cả tháng. Chỉ số: doanh số, giá trị TB/đơn, tỷ lệ chốt (`closeStats`: data = các dòng `S.d.adRows` có ngày trong kỳ, sale = người đó, mỗi SĐT 1 lần; ra đơn = SĐT có đơn không huỷ/hoàn từ đầu ngày có số (`buyMap`) hoặc khách hỏi của số đó "Đã chốt"; không mua / số rác theo khách hỏi; tỷ lệ = ra đơn ÷ data, đang tư vấn / không mua / số rác nằm trong mẫu số; BCDT dùng chung cho cột Data quảng cáo / Data ra đơn / Tỷ lệ chốt và cột Data mới theo dòng SP (dòng SP theo cột Nguồn / tên sheet)), % doanh thu từ khách cũ, lượt chăm sóc & % khách trả lời, khách đặt lại, khách quá 30 ngày. Mỗi chỉ số so với tháng trước. **Màn hình 1 người** (`viewPerson`, 13/10/2026, cùng kiểu Tổng quan): mục tiêu → 4 ô `dashTile` (💰 tiền bán được, 🎯 chốt được, 🛒 mỗi đơn, 🔁 khách cũ mua lại; đèn so với chính người đó kỳ trước: `dashTrend` / `repRateLv` (giảm < 3 điểm = cam), tiền bán được dùng đèn mục tiêu nếu tháng này có mục tiêu) → `repFunnel` (thanh data quảng cáo: đã mua / đang tư vấn / không mua / số rác) → `repTodo` (≤ 5 việc) → nút Báo cáo ngày / BCDT → mục thu gọn `repMore` (xu hướng, chăm sóc, lý do, tỉnh; nhớ ở localStorage `rep_open`, `bindRep`). Nhân viên chỉ tải dữ liệu của mình nên không so với nhóm. **Sắp lại 29/10/2026** (theo thứ tự sale giỏi tự hỏi): `targetBlock(…, avg)` thêm "≈ N đơn/ngày" → `repMoneyLine` (💰 doanh số gồm hoàn / huỷ + 💵 đã thu) → `repTodo` (3 việc, xếp theo tiền ước tính = số khách × tỷ lệ chốt × tiền mỗi đơn, còn lại trong `<details>` "việc khác") → `repSteps` 6 ô `repStep` đánh số (① khách hỏi + 1đ→Xđ, ② gọi ngay trong ngày `smkSpeed`, ③ chốt + cả nhóm `smkClose(team)`, ④ mỗi đơn, ⑤ giao thành công = 100 − % hoàn / huỷ, ⑥ khách cũ; đèn kèm chữ) → `repFix` (1 khâu cần sửa nhất: đèn đỏ trước rồi tiền mất nhiều nhất, kèm cách sửa + tiền thêm được) → mục thu gọn (`smkInvest` + `repFunnel` chuyển vào đầu mục 📣 qua tham số `top` của `smkMore`) → 🧰 Công cụ (nút báo cáo + `refBox`). Màn hình 1 người không còn dòng chú thích ký hiệu (`perChips(…, noKey)`). "Người giỏi nhất nhóm" chưa làm: sale chỉ tải dữ liệu của mình. **Màn hình cả nhóm** (`viewTeam`, 13/10/2026): mục tiêu nhóm (thêm mỗi ngày cần / dự báo) → 4 ô → `repFunnel` cả nhóm → `repMgrTodo` (≤ 5 việc, tên bấm được `data-who`) → `repPeople` (xếp theo doanh số, huy chương top 3, viền = `goalCalc` lv, dòng Cần kèm từ `repWeak` so với `perf(null)`) → mục thu gọn: So sánh nhân viên (`compareBlock`), xu hướng, chăm sóc, lý do (`whyBlock` + `teamLostBlock`), tỉnh. Bỏ thẻ `.card[data-who]` cũ và dòng thông báo đơn chưa có NV bán (đã vào việc cần làm). **📣 Từ quảng cáo** (13/10/2026, api `2026-10-13h`, `api/src/salemkt.js`): lệnh `sale_mkt` {from, to, name} – máy chủ tính cả nhóm 1 lần (kv `smkt1_<from>_<to>_<ads_rows_v>`, 30 phút / kỳ đã qua 12 tiếng): data = `ads_rows` trong kỳ (mỗi SĐT 1 lần, như `closeStats`), sản phẩm = `prodOf(cột Nguồn)` (PROD_KW giống mktv.js); chi phí = `ad_spend` trừ kênh sàn / KOL, chia theo `prodOf(tên chiến dịch)` ÷ số data sản phẩm đó, phần còn lại chia đều; kết quả: won / junk / lost / open, rev = đơn không huỷ/hoàn từ ngày có số; lần liên hệ đầu = min(nhật ký có SĐT trừ việc hệ thống, `leads.last_at` khi đã khác Mới hỏi, đơn) → same / next / late / none (chưa gọi, số trước hôm nay) / wait. Nhân viên nhận `me` + `team` (không tên), quản lý thêm `people`. CRM: `smkGet` (nhớ 10 phút, bỏ qua kỳ Mọi lúc), `smkInvest` (khung 💸, đèn `adsLv`), `smkMore`/`smkDetail` (mục `rm-mkt`), `repTodo` / `repMgrTodo` / `repWeak` dùng `none` + `smkSpeed`. **Ưu đãi đang chạy**: kv `mkt_offers` [{id, title, prod, text, until, by, at}], lệnh `offers` (ai cũng đọc), `offer_save` / `offer_del` (Marketing + Quản trị, có trong `MKT_ACTIONS`); CRM `offerBanner` (đầu tab Khách hỏi), `offerAdmin` / `offerEdit` (tab Marketing, nút `data-offer`).
 - **Đồng bộ file sale** (Cài đặt, chỉ Quản trị; trang Sheet "Nguồn dữ liệu sale"): mỗi file gồm sale + link + cấu hình từng sheet (vai trò `orders` / `care` / `reject` / `skip`, dòng tiêu đề, cột → trường). `src_inspect` đọc file (`SpreadsheetApp.openById`, tài khoản chạy Apps Script cần quyền xem file) và đoán cột (`detectMap`). `src_sync` từng sheet, `dry` để xem trước. Đơn: khoá theo mã đơn, không có mã thì `NK` + hash(ngày, SĐT, tiền, sản phẩm); ghi thẳng vào trang Đơn hàng (Nguồn "File <sale> – <sheet>", NV bán = sale) rồi `rebuildCustomers({owners})`. Chăm sóc: ghép nhật ký vào "Ghi chú CSKH" (dưới dòng "— Nhật ký cũ (sheet) —"), người chưa mua → tiềm năng (≤30 ngày: Đang tư vấn, cũ hơn: Không mua – dữ liệu cũ); nhớ số dòng đã xử lý (`cfg.done`). Từ chối: cột "Nhãn" của khách (Bom hàng / Từ chối).
   - **Ngày & mã đơn trong file sale** (`sync.js`, 12/10/2026): (1) File để định dạng Mỹ (`usDates`: có ≥ 3 ô chữ kiểu "23/1" và gần như mọi ô ngày thật có ngày ≤ 12) → ô ngày thật bị đảo ngày/tháng (gõ 7/3 thành 3/7), `toDate` đảo lại, trừ ô đã khớp ngày trong mã đơn (`codeNear`). File Chang sheet "Lên đơn" bị lỗi này. (2) Ô ngày trống → lấy ngày trong mã đơn (`codeDay`: tên + ddMM + số thứ tự, vd Chang090601 = 09/06; năm theo dòng trên). Sheet VTG_lendon của Chang bỏ trống ngày 260 dòng (4–7/2026) → trước đây bị bỏ qua. (3) Mã đơn không có năm nên trùng giữa các năm/sheet (Chang101001 năm 2025 và 2026 là 2 khách): mã đã thuộc đơn của SĐT khác → đơn mới dùng `mã-4 số cuối SĐT`. Trước đó 64 đơn bị coi là "đã có" và 8 đơn cũ bị ghi đè (đã tự sửa lại theo file). Đơn file có ngày bị đảo, hoặc đơn trên CRM trong 60 ngày gần đây, cũng được sửa theo file (Nhật ký ghi lý do). Chữ ký sheet có tiền tố `d2#` để mọi sheet đọc lại 1 lần.
   - **Sale sửa SĐT của đơn đã nhập** (`sameOrder`, `phChgAlert`, api `2026-10-16e`): 16/10/2026 Phương sửa số Thầy Chùa An …379 → …179 trong file, CRM tưởng mã đã thuộc khách khác nên tạo thêm `Phuong051004-5179` (doanh số dư 1,8 triệu). Nay cùng mã + cùng tiền + cách ≤ 7 ngày + (cùng tên đã bỏ "(x)"/số trong tên, hoặc SĐT khác ≤ 2 chữ số) → coi là cùng đơn: giữ đơn cũ, không tạo đơn mới, ghi Nhật ký + Telegram cho Quản trị có Telegram (mỗi mã + số mới báo 1 lần, kv `ph_chg_seen`, 90 ngày). Đơn `mã-xxxx` đã tạo trước đây vẫn giữ, nhưng được báo kèm để xoá tay. Chỉ cùng mã + ngày + tiền thì chưa đủ (Lương 080804: 2 khách khác nhau cùng ngày, cùng 900.000đ).

diff --git a/guide/crm-them.md b/guide/crm-them.md
@@ -238,21 +238,26 @@ Bấm 1 nút thời gian ở trên cùng: *Hôm nay, Tuần này, Tháng này…
 
 ![Tab Hiệu quả](/huong-dan/img/crm-hieuqua.webp)
 
-- **Thanh mục tiêu:** vạch đen là hôm nay. Thanh màu vượt vạch đen = **đúng tiến độ**.
-- **6 ô lớn** (mỗi ô so với chính bạn kỳ trước):
-    - **💰 Doanh số**: tổng tiền các đơn bạn lên, **kể cả đơn bị hoàn / huỷ**. Dòng 🎯 bên dưới là số tính mục tiêu, thi đua: đã trừ đơn hoàn / huỷ.
-    - **💵 Doanh thu**: tiền đơn đã giao xong hoặc đã nhận chuyển khoản.
-    - **↩ Hoàn / huỷ**: bao nhiêu % đơn của bạn bị hoàn hoặc huỷ. Dưới 5% là tốt. Gọi xác nhận trước khi gửi hàng thì số này giảm.
-    - **🎯 Chốt được**: cứ 10 người hỏi thì bạn chốt được mấy người.
-    - **🛒 Mỗi đơn**: trung bình mỗi đơn bao nhiêu tiền. Tư vấn combo, 2–3 hộp thì số này tăng.
-    - **🔁 Khách cũ mua lại**: bao nhiêu khách cũ quay lại mua.
-- **👉 Việc nên làm ngay**: tối đa 5 việc quan trọng nhất. Làm theo từ trên xuống.
+Tab xếp theo đúng thứ tự một sale giỏi tự hỏi mỗi ngày, **đọc từ trên xuống**:
+
+1. **🎯 Mục tiêu:** vạch đen là hôm nay. Thanh màu vượt vạch đen = **đúng tiến độ**. Dòng "mỗi ngày cần…" ghi luôn **cần bao nhiêu đơn mỗi ngày**.
+    - Ngay dưới: **💰 Doanh số** (tổng tiền các đơn bạn lên, **kể cả đơn hoàn / huỷ**; số tính mục tiêu đã trừ hoàn / huỷ) và **💵 Đã thu** (đơn đã giao xong hoặc đã nhận chuyển khoản).
+2. **👉 Hôm nay làm 3 việc này trước:** việc **ra nhiều tiền nhất lên đầu**, có ghi "≈ có thể ra … tr". Làm từ trên xuống. Bấm **＋ việc khác** để xem thêm.
 
 ![Việc nên làm ngay](/huong-dan/img/crm-hieuqua-viec.webp)
 
-- **💸 Công ty đã đầu tư cho bạn**: công ty đã trả bao nhiêu tiền quảng cáo để có các số khách giao cho bạn, và bạn đã bán được bao nhiêu từ các số đó. **Gọi số mới ngay trong ngày** thì dễ chốt nhất.
+3. **🪜 Các bước bán hàng:** 6 ô đánh số, đi đúng đường khách đi:
+    - **① Khách hỏi nhận được**: số khách để lại từ quảng cáo. Dòng nhỏ: công ty chi bao nhiêu, **cứ 1đ công ty chi bạn mang về mấy đồng**.
+    - **② Gọi ngay trong ngày**: bao nhiêu % số mới bạn gọi ngay hôm nhận. **Từ 80% là tốt.** Khách vừa để số còn nhớ quảng cáo nên dễ chốt nhất.
+    - **③ Chốt được**: cứ 10 người hỏi thì bạn chốt được mấy người, so với cả nhóm.
+    - **④ Mỗi đơn**: trung bình mỗi đơn bao nhiêu tiền. Tư vấn combo, 2–3 hộp thì số này tăng.
+    - **⑤ Giao thành công**: bao nhiêu % đơn đến tay khách, không bị hoàn / huỷ. **Từ 95% là tốt.** Gọi xác nhận trước khi gửi thì số này tăng.
+    - **⑥ Khách cũ mua lại**: bao nhiêu khách cũ quay lại mua.
+4. **💡 Khâu cần sửa nhất:** máy chọn ra **1 khâu yếu nhất**, chỉ cách sửa và ghi **sửa được thì thêm khoảng bao nhiêu tiền**. Chỉ cần tập trung sửa khâu này.
+5. **Xem chi tiết** (bấm để mở): bán hàng theo ngày, từ quảng cáo (công ty đã đầu tư cho bạn, khách hỏi đi về đâu), chăm sóc, lý do khách chưa mua, tỉnh.
+6. **🧰 Công cụ** (cuối trang): Báo cáo ngày gửi Zalo, Bảng BCDT, link web riêng của bạn để gửi khách.
 
-**Đèn màu:** 🟢 bằng hoặc tốt hơn kỳ trước · 🟠 giảm nhẹ · 🔴 giảm nhiều.
+**Đèn màu** (có chữ đi kèm): 🟢 Tốt · 🟠 Cần để ý · 🔴 Cần xử lý. So với chính bạn kỳ trước, hoặc so với mức tốt ghi ngay trong ô.
 
 **Đường nhỏ cạnh con số:** ↗ *đang lên*, → *đi ngang*, ↘ *đang xuống*. Cho biết mấy ngày qua con số đang tốt lên hay kém đi.
 
